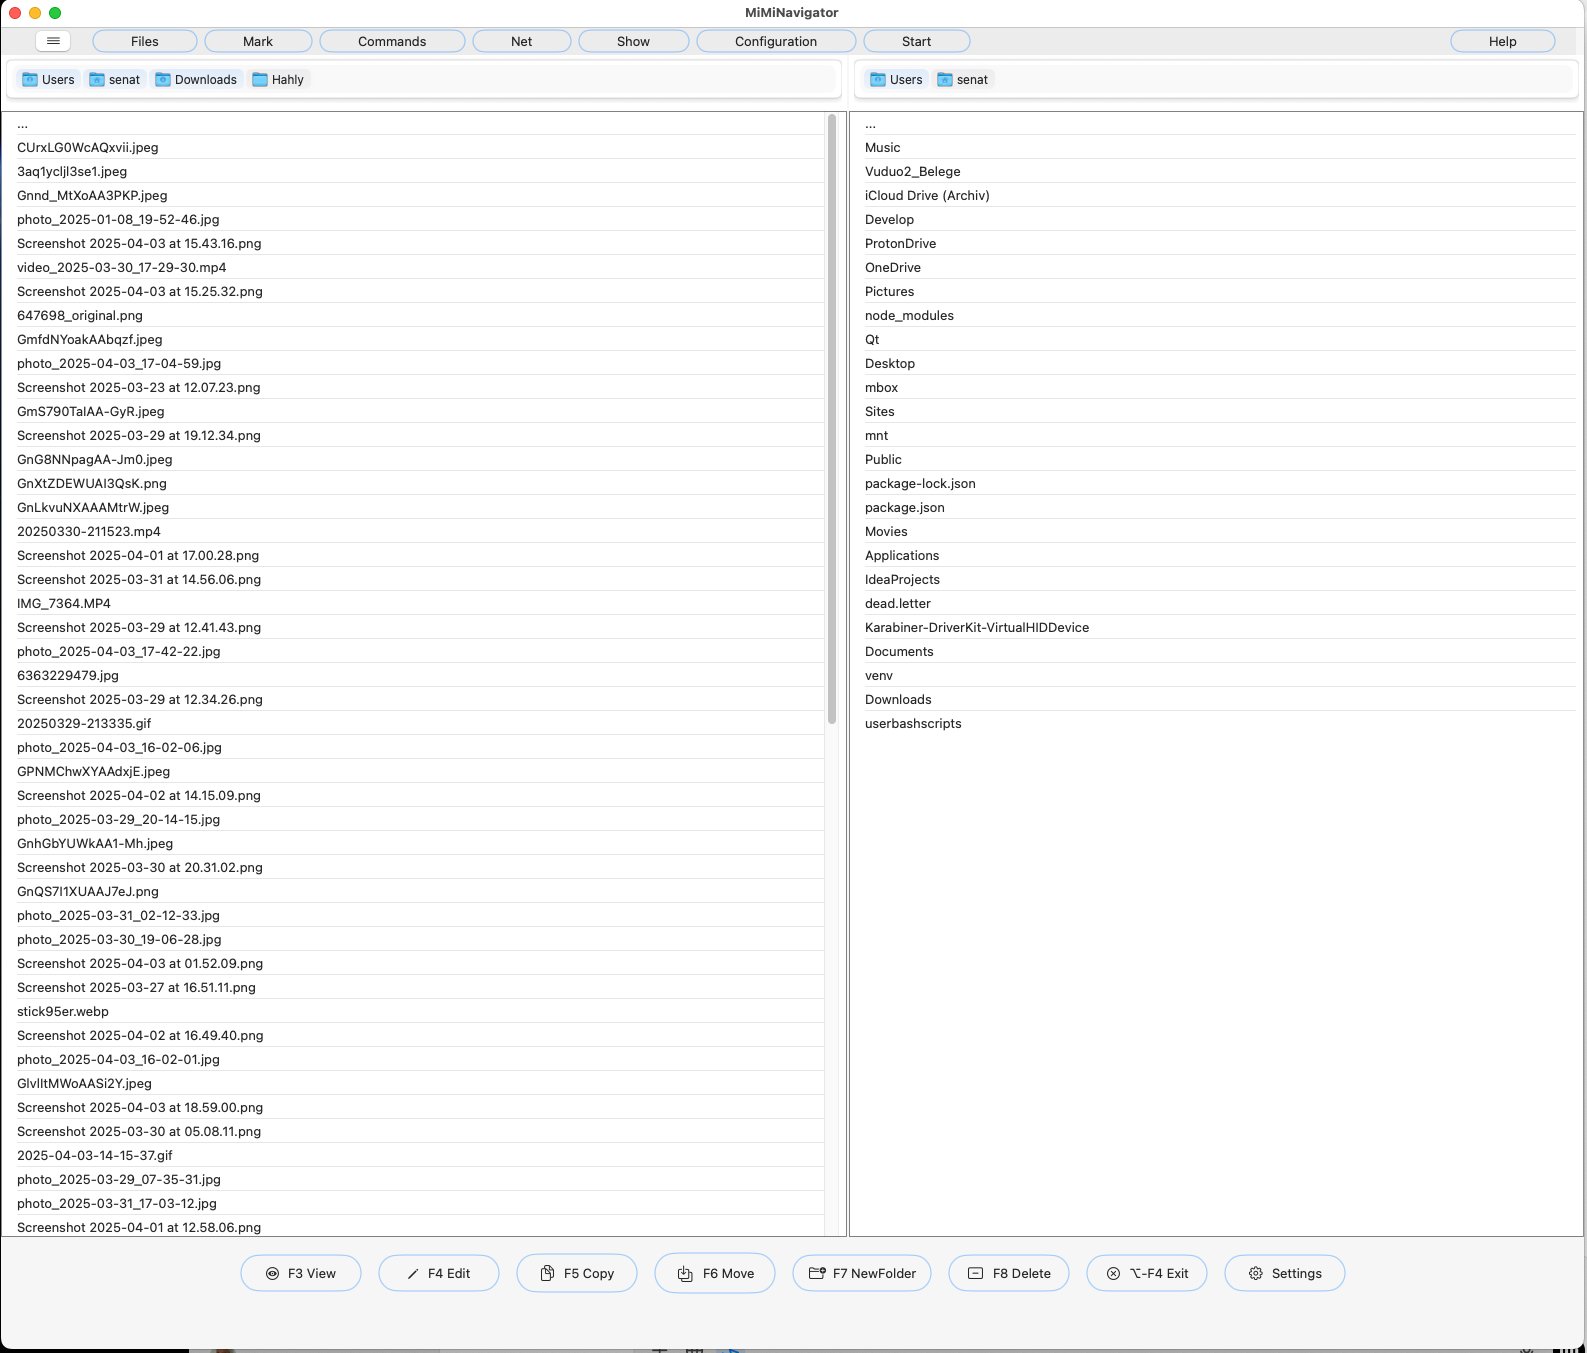
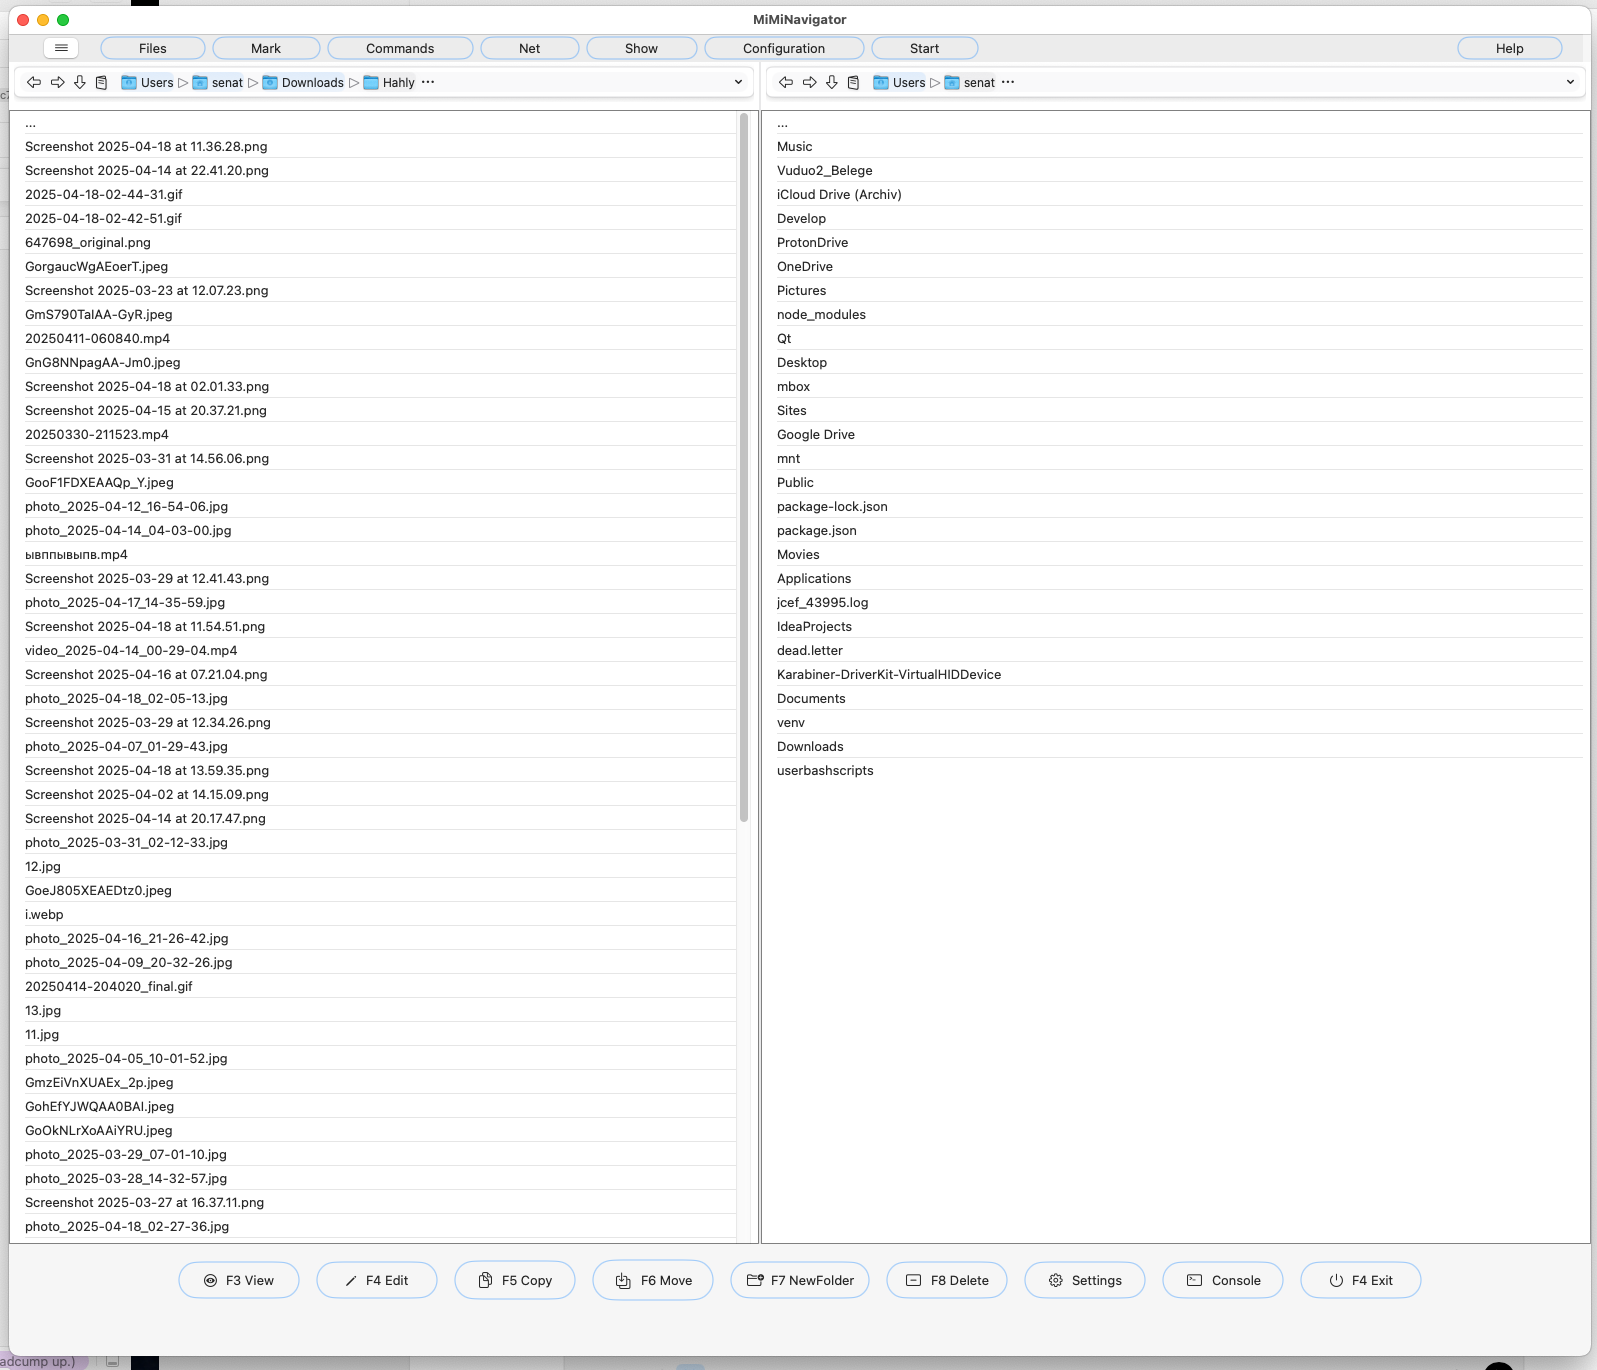
refactor breadcamp (sub)views

Changed region(s): [[0.0, 0.0, 1.0, 1.0], [0.4631, 0.6829, 0.494, 0.7761]]

diff --git a/MiMiNavigator/BreadcrumbNav/EditablePathControlView.swift b/MiMiNavigator/BreadcrumbNav/EditablePathControlView.swift
@@ -12,7 +12,7 @@ import SwiftyBeaver
 struct EditablePathControlView: View {
     @Binding var path: String
     var onPathSelected: (String) -> Void
-
+    
     var body: some View {
         HStack(spacing: 2) {
             NavMnu()
@@ -31,28 +31,7 @@ struct EditablePathControlView: View {
                         onPathSelected(item.path)
                     }
                 }) {
-                    HStack(spacing: 4) {
-                        Image(nsImage: item.icon)
-                            .resizable()
-                            .frame(width: 16, height: 16)
-                        Text(item.title)
-                            .foregroundStyle(.primary)
-                            .font(.callout)
-                    }
-                    .padding(.vertical, 2)
-                    .background(
-                        RoundedRectangle(cornerRadius: 6)
-                            .fill(
-                                LinearGradient(
-                                    colors: path == item.path
-                                    ? [Color.gray.opacity(0.1), Color.gray.opacity(0.05)]
-                                    : [Color.blue.opacity(0.1), Color.blue.opacity(0.05)],
-                                    startPoint: .top,
-                                    endPoint: .bottom
-                                )
-                            )
-                            .shadow(color: .gray.opacity(path == item.path ? 0.4 : 0), radius: 4, x: 0, y: 2)
-                    )
+                    DirIcon(item: item, path: path)
                 }
                 .buttonStyle(.plain)
             }
@@ -63,38 +42,30 @@ struct EditablePathControlView: View {
                 .fill(Color.gray.opacity(0.05))
         )
     }
-
+    
         // Вспомогательная структура для элементов пути
-    private struct EditablePathItem: Hashable {
+    struct EditablePathItem: Hashable {
         let title: String
         let path: String
         let icon: NSImage
     }
-
+    
         // Генерация элементов пути
     private func pathComponents() -> [EditablePathItem] {
         let url = URL(fileURLWithPath: path)
         var components = url.pathComponents
         if components.first == "/" { components.removeFirst() }
-
+        
         var currentPath = "/"
         return components.map { component in
             currentPath = (currentPath as NSString).appendingPathComponent(component)
             let icon = NSWorkspace.shared.icon(forFile: currentPath)
             icon.size = NSSize(width: 16, height: 16)
-
+            
             return EditablePathItem(title: component, path: currentPath, icon: icon)
         }
     }
-
-}
-
-#Preview {
-    EditablePathControlView(path: .constant("/Users/senat/Downloads/Telegram Desktop")) { selectedPath in
-        print("Path selected: \(selectedPath)")
-    }
-    .frame(height: 36)
-    .padding()
+    
 }
 
 struct Mnu2: View {
@@ -130,7 +101,7 @@ struct NavMnu: View {
                 }) {
                     Image(systemName: "arrowshape.backward")
                 }
-
+                
                 Button(action: {
                     log.debug("Forward: navigating to next directory")
                 }) {
@@ -155,4 +126,47 @@ struct NavMnu: View {
         }
         .padding(.leading, 6)
     }
+}
+
+struct DirIcon: View {
+    let item: EditablePathControlView.EditablePathItem
+    let path: String
+    
+    var body: some View {
+        let isSelected = path == item.path
+        let gradientColors =
+        isSelected
+        ? [Color.gray.opacity(0.1), Color.gray.opacity(0.05)]
+        : [Color.blue.opacity(0.1), Color.blue.opacity(0.05)]
+        
+        return HStack(spacing: 4) {
+            Image(nsImage: item.icon)
+                .resizable()
+                .frame(width: 16, height: 16)
+            
+            Text(item.title)
+                .foregroundStyle(.primary)
+                .font(.callout)
+        }
+        .padding(.vertical, 2)
+        .background(
+            RoundedRectangle(cornerRadius: 6)
+                .fill(
+                    LinearGradient(
+                        colors: gradientColors,
+                        startPoint: .top,
+                        endPoint: .bottom
+                    )
+                )
+                .shadow(color: .gray.opacity(isSelected ? 0.4 : 0), radius: 4, x: 0, y: 2)
+        )
+    }
+}
+
+#Preview {
+    EditablePathControlView(path: .constant("/Users/senat/Downloads/Telegram Desktop")) { selectedPath in
+        print("Path selected: \(selectedPath)")
+    }
+    .frame(height: 36)
+    .padding()
 }
